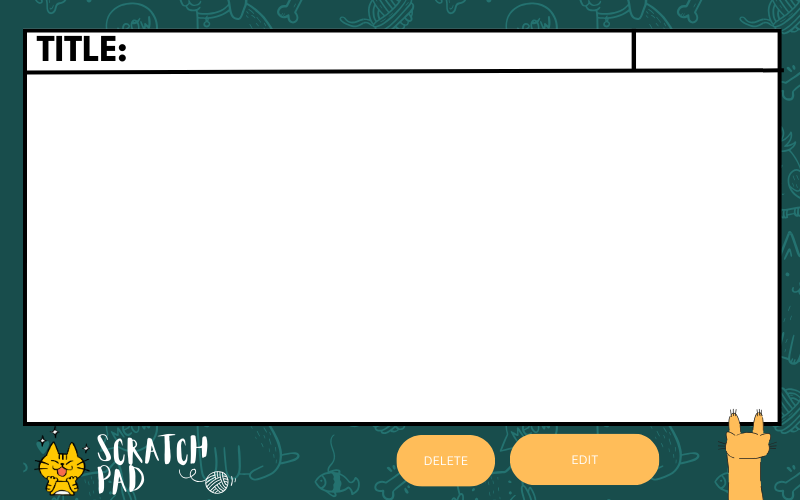
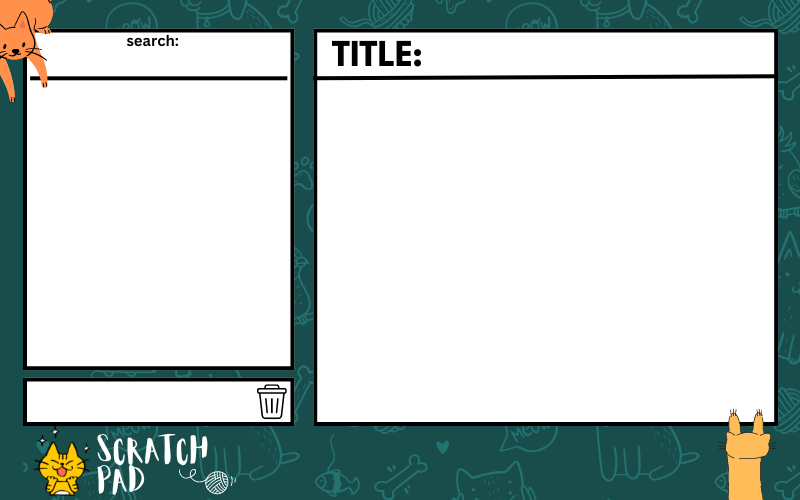
scratchpad DONEEEE

diff --git a/scratchpad.py b/scratchpad.py
@@ -1,5 +1,7 @@
 from tkinter import *
+from tkinter import ttk
 import sqlite3
+
 
 #database
 connect=sqlite3.connect('nota.db')
@@ -14,76 +16,132 @@ yellow='#FFBD59'
 note=Tk()
 note.title('ScratchPad')
 note.geometry('800x500')
-notesbg=PhotoImage(file="./images/meowtes1.png")
-bg=Label(note, image=notesbg)
+
+
+
+#tabs------------------------------------------------------------------------------
+notebook=ttk.Notebook(note)
+notebook.pack(fill='both', expand=True)
+
+tab1=Frame(notebook)
+notebook.add(tab1,text='ADD NEW NOTES')
+
+tab2=Frame(notebook)
+notebook.add(tab2, text='VIEW MY NOTES')
+notesbg1=PhotoImage(file="./images/meowtes2.png")
+bg=Label(tab1, image=notesbg1)
 bg.pack()
+notesbg2=PhotoImage(file="./images/meowtes3.png")
+bg2=Label(tab2, image=notesbg2)
+bg2.pack()
+
+
 
 #title-----------------------------------------------------------
 
-title_entry=Entry(note, width='45', font='comfortaa 17 bold', bd=0)
-title_entry.place(x='150', y='75')
-content_entry=Text(note, width=93, height=16, bd=0, font='arial,  11', undo=True)
-content_entry.place(x='22', y='125')
+title_entry=Entry(tab1, width='45', font='comfortaa 17 bold', bd=0)
+title_entry.place(x='150', y='22')
+content_entry=Text(tab1, width=93, height=16, bd=0, font='arial,  11', undo=True)
+content_entry.place(x='29', y='80')
+
 #add new notes--------------------------------------------------
 
 def add_note():
     title_entry.delete(0, END)
     content_entry.delete('1.0', END)
-    
-save_button=Button(note, text='+', font='comfortaa 15 bold', bg='white', bd=0, command=add_note).place(x='270',y='10')
-    
-    
-    
+ 
 #save into mote-------------------------------------
 def save_note():
     global title_entry
     title = title_entry.get()
-    content = content_entry.get("1.0", "end-1c")
-    note_save="INSERT OR IGNORE INTO notes(title,content) VALUES ('%s1','%s')" % (title, content)
-    cursor.execute(note_save)
+    content = content_entry.get("1.0", "end-1c")  
+    note_save = "INSERT OR REPLACE INTO notes(title, content) VALUES (?, ?)"
+    cursor.execute(note_save, (title, content))  
     connect.commit()
-    
-save_button=Button(note, text='SAVE', font='comfortaa 15 bold', bg=yellow, bd=0, command=save_note).place(x='525',y='440')
-    
-#edit current note----------------------
-def edit_note():
-    title = title_entry.get()
-    content = content_entry.get("1.0", "end-1c")
-    note_edit="UPDATE notes SET content='%s' where title='%s1'" % (content,title)
-    cursor.execute(note_edit)
-    connect.commit()
-    
-edit_button=Button(note, text='EDIT', font='comfortaa 15 bold', bg=yellow, bd=0, command=save_note).place(x='410',y='440')
-    
+
+
 #delete note-------------------------------------------------
-
 def delete_note():
-    title = title_entry.get()
-    note_delete="DELETE FROM notes WHERE title='%s1'"%(title)
-    cursor.execute(note_delete)
+    title = delete_entry.get()
+    note_delete = "DELETE FROM notes WHERE title=?"
+    cursor.execute(note_delete, (title,))
     connect.commit()
     
-delete_button=Button(note, text='DELETE', font='comfortaa 15 bold', bg=yellow, bd=0, command=save_note).place(x='275',y='440')
+delete_entry = Entry(tab2, bd=0, width=10, font='comfortaa 15 bold')
+delete_entry.place(x='40', y='375')
+delete_icon=PhotoImage(file='./images/trash_icon.png')
+delete_button = Button(tab2, image=delete_icon, font='comfortaa 15 bold', bg='white', bd=0, command=delete_note)
+delete_button.place(x='253', y='370')
+#search notes----------------------------------------------------------------------------
 
-def search_note():
-    search_window=Toplevel()
-    search_window.title('View My Files')
-    search_window.geometry('500x300')
-    search_window.resizable(False,False)
-    filelist=Listbox(search_window, font=('comfortaa 12 bold'))
-    
-    cursor.execute("SELECT * FROM notes")
-    t=cursor.fetchall()
-    for title in t:
-        filelist.insert(END, title)
-    cursor.execute("SELECT * FROM notes")
-    t=cursor.fetchall()
-    for title in t:
-        print(title)
-     
-        
+content_entry2 = Text(tab2, width=50, height=16, bd=0, font='arial,  11', undo=True)
+content_entry2.place(x='320', y='80')
+search_text= Entry(tab2, bd=0, width='10', font=('comfortaa 12 bold'))
+search_text.place(x='70', y='35')
+
+def search():
+    title = search_text.get()
+    searchquery = "SELECT * FROM notes WHERE title=?"
+    cursor.execute(searchquery, (title,))
+    note1 = cursor.fetchone()
+    if note1:
+        content_entry2.delete("1.0", END)
+        content_entry2.insert(END, note1[1])
+    else:
+        content_entry2.delete("1.0", END)
+        content_entry2.insert(END, 'NOTE NOT FOUND')
+
 searchicon=PhotoImage(file='./images/search_icon.png')
-search_button=Button(note, image=searchicon, font='comfortaa 16 bold', bg='white', bd=0, command=search_note).place(x='25',y='10')
+#LISTBOX-----------------------------------------------------------------------------
+def update_notes_list():
+    noteslist.delete(0, END)
+    cursor.execute("SELECT title FROM notes")
+    notes = cursor.fetchall()
+    for note in notes:
+        noteslist.insert(END, note[0])
 
+content_entry2 = Text(tab2, width=93, height=16, bd=0, font='arial 11', undo=True)
+content_entry2.place(x=29, y=80)
+search_text = Entry(tab2, bd=0, width=10, font='comfortaa 12 bold')
+search_text.place(x=150, y=25)
+
+delete_entry = Entry(tab2, bd=0, width=10, font='comfortaa 12 bold')
+delete_entry.place(x=150, y=430)
+
+listframe = Frame(tab2, width=200, height=400)
+listframe.place(x=20, y=50)
+noteslist = Listbox(listframe, font='comfortaa 15 bold', width=25, height=15)
+noteslist.pack(side=LEFT, fill=BOTH)
+
+scrollbar = Scrollbar(listframe, command=noteslist.yview)
+scrollbar.pack(side=RIGHT, fill=Y)
+noteslist.configure(yscrollcommand=scrollbar.set)
+
+update_notes_list()
+
+
+
+#buttons--------------------------------------------------------------------
+save_button = Button(tab1, text='CLEAR', font='comfortaa 15 bold', bg=yellow , bd=0, command=add_note)
+save_button.place(x=405, y=430)
+
+save_button = Button(tab1, text='SAVE', font='comfortaa 15 bold', bg=yellow, bd=0, command=save_note)
+save_button.place(x=550, y=430)
+
+
+delete_button = Button(tab2, text='DELETE', font='comfortaa 15 bold', bg=yellow, bd=0, command=delete_note)
+delete_button.place(x=520, y=429)
+
+search_button = Button(tab2, image=searchicon, font='comfortaa 16 bold', bg='white', bd=0, command=search)
+search_button.place(x=253, y=25)
+
+
+# style= ttk.Style()
+# style.theme("notebook.Tab":{'padding':[10,3], 'font':('comfortaa', '5', 'bold')}
+    
+    
+    
+    
 
 note.mainloop()
+

diff --git a/scratchpadv2.py b/scratchpadv2.py
@@ -26,21 +26,14 @@ notebook.pack(fill='both', expand=True)
 tab1=Frame(notebook)
 notebook.add(tab1,text='ADD NEW NOTES')
 
-
-
-
-
-
 tab2=Frame(notebook)
 notebook.add(tab2, text='VIEW MY NOTES')
 notesbg1=PhotoImage(file="./images/meowtes2.png")
 bg=Label(tab1, image=notesbg1)
 bg.pack()
-notesbg2=PhotoImage(file="./images/meowtes2.png")
+notesbg2=PhotoImage(file="./images/meowtes3.png")
 bg2=Label(tab2, image=notesbg2)
 bg2.pack()
-
-
 
 #title-----------------------------------------------------------
 
@@ -54,71 +47,107 @@ content_entry.place(x='29', y='80')
 def add_note():
     title_entry.delete(0, END)
     content_entry.delete('1.0', END)
-    
-save_button=Button(tab1, text='CLEAR', font='comfortaa 15 bold', bg=yellow , bd=0, command=add_note)
-save_button.place(x='405',y='430')
-    
+ 
 #save into mote-------------------------------------
 def save_note():
     global title_entry
     title = title_entry.get()
-    content = content_entry.get("1.0", "end-1c")
-    note_save="INSERT OR IGNORE INTO notes(title,content) VALUES (?,'?')" % (title, content)
-    cursor.execute(note_save)
+    content = content_entry.get("1.0", "end-1c")  
+    note_save = "INSERT OR REPLACE INTO notes(title, content) VALUES (?, ?)"
+    cursor.execute(note_save, (title, content))  
     connect.commit()
-    
-save_button=Button(tab1, text='SAVE', font='comfortaa 15 bold', bg=yellow, bd=0, command=save_note).place(x='550',y='430')
-    
-#edit current note----------------------
-def edit_note():
-    title = title_entry.get()
-    content = content_entry.get("1.0", "end-1c")
-    note_edit="UPDATE notes SET content='?' where title=?" % (content,title)
-    cursor.execute(note_edit)
-    connect.commit()
-    
-edit_button=Button(tab2, text='EDIT', font='comfortaa 15 bold', bg=yellow, bd=0, command=save_note).place(x='415',y='429')
-    
-#delete note-------------------------------------------------
+    update_notes_list()
 
+
+#delete note-------------------------------------------------
 def delete_note():
-    title = title_entry.get()
-    note_delete="DELETE FROM notes WHERE title=?"%(title)
-    cursor.execute(note_delete)
-    connect.commit()
     
-delete_button=Button(tab2, text='DELETE', font='comfortaa 15 bold', bg=yellow, bd=0, command=save_note).place(x='520',y='429')
+    global delete_entry
+    selected_note = noteslist.get(noteslist.curselection())
+    note_delete = "DELETE FROM notes WHERE title=?"
+    cursor.execute(note_delete, (selected_note,))
+    connect.commit()
+    tt2.config(text='')
+    content_entry2.delete("1.0", END)
+    update_notes_list()
+        
+delete_icon=PhotoImage(file='./images/trash_icon.png')
+delete_button = Button(tab2, image=delete_icon, font='comfortaa 15 bold', bg='white', bd=0, command=delete_note)
+delete_button.place(x='253', y='370')
+deletetext_button = Button(tab2, text='DELETE', font='comfortaa 15 bold', bg='white', bd=0, command=delete_note)
+deletetext_button.place(x='100', y='370')
 #search notes----------------------------------------------------------------------------
 
+content_entry2 = Text(tab2, width=50, height=16, bd=0, font='arial,  11', undo=True)
+content_entry2.place(x='320', y='80')
 search_text= Entry(tab2, bd=0, width='10', font=('comfortaa 12 bold'))
-search_text.place(x='150', y='25')
+search_text.place(x='70', y='35')
 
 def search():
-    global cursor
-    title=search_text.get()
-    searchquery="SELECT * FROM notes WHERE title=?"   
+    title = search_text.get()
+    searchquery = "SELECT * FROM notes WHERE title=?"
     cursor.execute(searchquery, (title,))
-    note1=cursor.fetchone()
+    note1 = cursor.fetchone()
+    tt2.config(text=title)
     if note1:
-        content_entry.delete('1.0', END)
-        content_entry.config(text=note1[1])
-    else:
-        content_entry.delete('1.0', END)
-        content_entry.config(text='NOTE NOT FOUND')
+        content_entry2.delete("1.0", END)
+        content_entry2.insert(END, note1[1])
         
+    else:
+        content_entry2.delete("1.0", END)
+        content_entry2.insert(END, 'NOTE NOT FOUND')
+
 searchicon=PhotoImage(file='./images/search_icon.png')
+#LISTBOX-----------------------------------------------------------------------------
+def update_notes_list():
+    noteslist.delete(0, END)
+    cursor.execute("SELECT title FROM notes")
+    notes = cursor.fetchall()
+    for note in notes:
+        noteslist.insert(END, note[0])
+        
+        
+def display_content(event):
+    try:
+        selected_note=noteslist.get(noteslist.curselection())
+        cursor.execute("SELECT content FROM notes WHERE title=?", (selected_note,))
+        note_content = cursor.fetchone()
+        if note_content:
+            content_entry2.delete("1.0", END)
+            content_entry2.insert(END, note_content[0])
+            tt2.config(text=selected_note)
+        else:
+            content_entry2.delete("1.0", END)
+            content_entry2.insert(END, 'NOTE NOT FOUND')
+    except TclError:
+        pass
+        
+listframe = Frame(tab2, width=50, height=150, bd=0)
+listframe.place(x=32, y=67)
+noteslist = Listbox(listframe, font='comfortaa 11 bold', width=28, height=15, bd=0, highlightcolor=yellow, highlightbackground=yellow, bg='white')
+noteslist.pack(side=LEFT, fill=BOTH)
+noteslist.bind('<<ListboxSelect>>', display_content)
 
-search_button=Button(tab2, image=searchicon, font='comfortaa 16 bold', bg='white', bd=0, command=search).place(x='740',y='25')
+scrollbar = Scrollbar(listframe, command=noteslist.yview)
+scrollbar.pack(side=RIGHT, fill=Y)
+noteslist.configure(yscrollcommand=scrollbar.set)
 
-#tabs---------------------------------------------------------------------------------------------------
+update_notes_list()
 
-#--------------------------------------------------------
-# style= ttk.Style()
-# style.theme("notebook.Tab":{'padding':[10,3], 'font':('comfortaa', '5', 'bold')}
-    
-    
-    
-    
+#title on tab2-------------------------------------------------------------------
+
+tt2=Label(tab2, text='', font=' comfortaa 18 bold', bg='white')
+tt2.place(x=430, y=25)
+#buttons--------------------------------------------------------------------
+save_button = Button(tab1, text='CLEAR', font='comfortaa 15 bold', bg=yellow , bd=0, command=add_note)
+save_button.place(x=405, y=430)
+
+save_button = Button(tab1, text='SAVE', font='comfortaa 15 bold', bg=yellow, bd=0, command=save_note)
+save_button.place(x=550, y=430)
+
+search_button = Button(tab2, image=searchicon, font='comfortaa 16 bold', bg='white', bd=0, command=search)
+search_button.place(x=253, y=25)
+
 
 note.mainloop()
 
